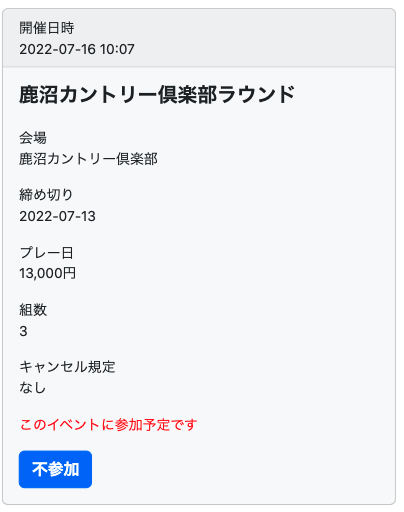
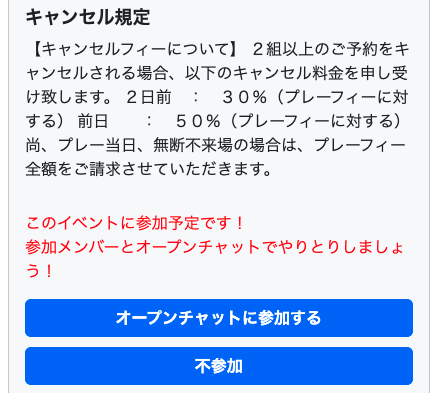
参加方法変更、オープンチャットボタン変更

Changed region(s): [[0.0, 0.0, 1.0, 1.0], [0.0, 0.0, 0.0297, 0.0305]]

diff --git a/src/views/EventHome.vue b/src/views/EventHome.vue
@@ -29,10 +29,10 @@
           <p class="eventList__text">{{ event.cancel }}</p>
 
           <template v-if="isEventToAttend(event.eventId)">
-            <p class="events__participation">このイベントに参加予定です</p>
+            <p class="events__participation">このイベントに参加予定です！<br>参加メンバーとオープンチャットでやりとりしましょう！</p>
             <!-- <button class="btn btn-primary"><router-link :to="{ name: 'ChatRoom', params: { eventId: event.eventId }}">グループチャット</router-link></button> -->
-            <p>参加メンバーと<a :href="event.openChat" target="_blank" rel="noopener noreferrer">オープンチャット</a>でやりとりしましょう！</p>
-            <button class="btn btn-primary eventList__btn" @click="nonParticipationEvent(event.eventId)">不参加</button>
+            <button :href="event.openChat" class="btn btn-primary eventList__btn">オープンチャットに参加する</button>
+            <button class="btn btn-primary eventList__btn eventList__btn--margin" @click="nonParticipationEvent(event.eventId)">不参加</button>
           </template>
           <button v-else class="btn btn-primary eventList__btn" @click="participationFeePayment(event.eventId)">参加する</button>
           <button v-if="currentUserData && currentUserData.admin" class="btn btn-primary eventList__btn eventList__btn--margin" @click="eventDelete(event.eventId)">イベント削除</button>
@@ -42,8 +42,8 @@
     <stripe-checkout
       ref="checkoutRef"
       mode="payment"
-      :pk="publishableKey"
-      :line-items="lineItems"
+      :pk="publishableTestKey"
+      :line-items="lineTestItems"
       :success-url="successURL"
       :cancel-url="cancelURL"
       :customerEmail='currentUser.email'

diff --git a/src/views/WayToParticipate.vue b/src/views/WayToParticipate.vue
@@ -33,13 +33,12 @@
 
       <div class="wayToParticipateFlow__wrapper">
         <h2 class="wayToParticipateFlow__title">5, 参加確定</h2>
-        <p>支払いが完了すると、「このイベントに参加予定です」と表示が変わります。</p>
+        <p>支払いが完了すると、「このイベントに参加予定です」と表示され、オープンチャットに参加することができます。</p>
         <img class="wayToParticipateFlow__img" src="@/assets/images/wayToParticipate/img5.png" alt="">
       </div>
 
       <div class="wayToParticipateFlow__wrapper">
         <h2 class="wayToParticipateFlow__title">6, オープンチャットでやりとり</h2>
-        <p>イベント当日の5〜7日前にオープンチャットのURLが送られてきます。</p>
         <p>ご挨拶や、ピックアップのやりとりなどを行いましょう。</p>
         <img class="wayToParticipateFlow__img" src="@/assets/images/wayToParticipate/img6.png" alt="">
       </div>
@@ -47,7 +46,6 @@
       <div class="wayToParticipateFlow__wrapper">
         <h2 class="wayToParticipateFlow__title">7, 当日のイベントを楽しみましょう！</h2>
       </div>
-
 
     </div>
   </div>
